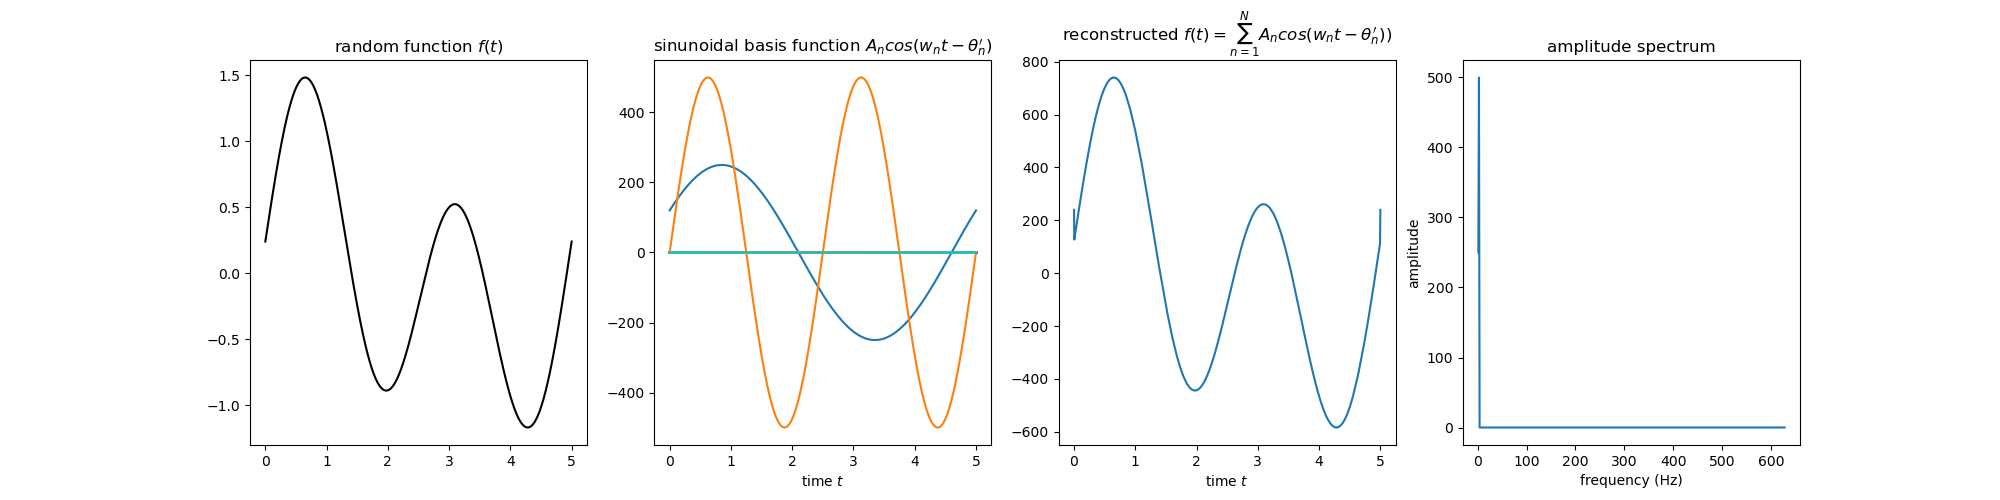
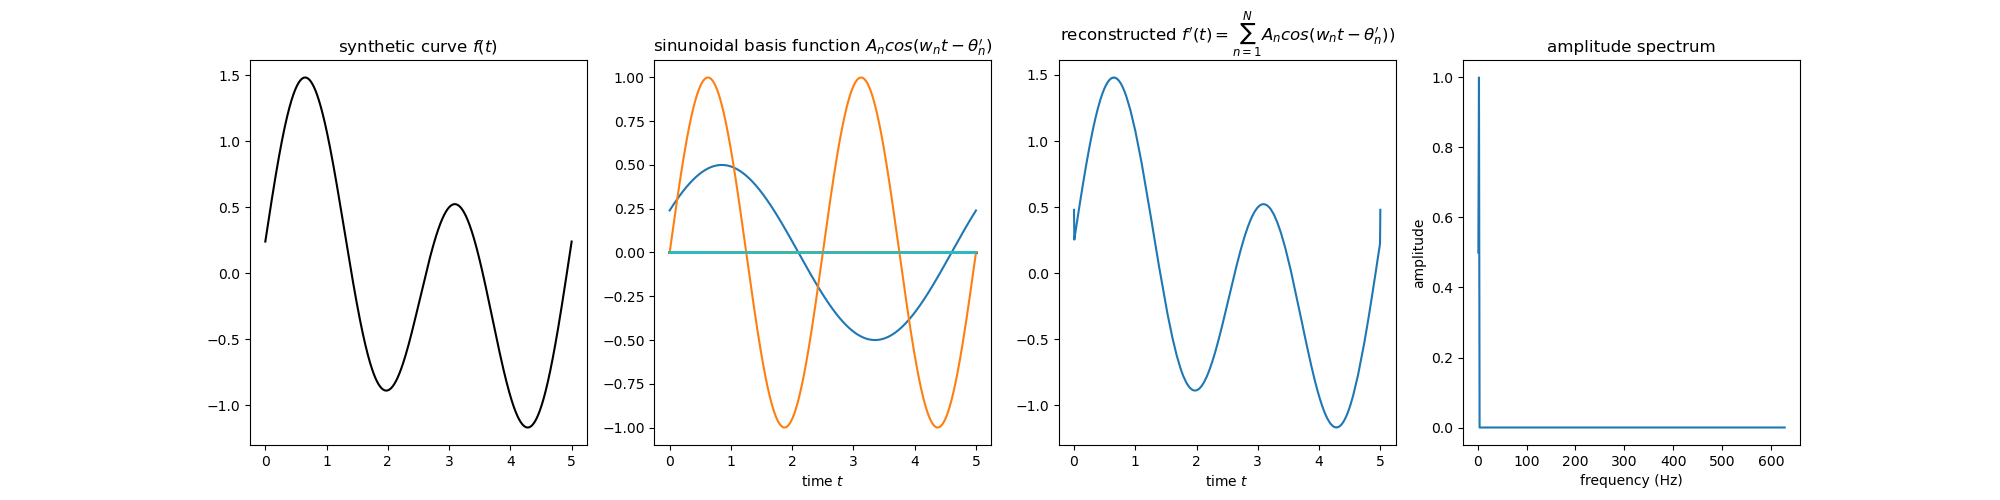
add: fourier transform

diff --git a/blog/_posts/2023-07-02-fourier-transform.md b/blog/_posts/2023-07-02-fourier-transform.md
@@ -2,7 +2,7 @@
 #layout: post
 title: Fourier Transform
 description: >
-  Fourier transform one liner. This post to ...
+  Fourier Transform is a novel method that is widely used in signal processing. This post to explain the intuition behind its mathematical operations and celebrate the beauty of it. 
 author: author1
 comments: true
 ---
@@ -66,7 +66,7 @@ Therefore, the approximation of a function $$f(t)$$ with sinusoidal basis functi
 
 $$f(t) = \sum_{n \in \mathbb{N}} A_n cos(w_nt - \phi^\prime_n) = \sum_{n \in \mathbb{N}} g_n(t) $$
 
-And because a sinusoid can be expressed as a linear combination of a sine and cosine function, hence
+And because a sinusoid $$g_n(t)$$ can be expressed as a linear combination of a sine and cosine function, hence
 
 $$f(t) = \sum_{n \in \mathbb{N}} C_n cos(w_nt) + D_n sin(w_nt)$$
 
@@ -78,7 +78,7 @@ $$\int_{-T/2}^{T/2} f(t) cos(w_mt)dt
 = \int_{-T/2}^{T/2}[\sum_{n \in \mathbb{N}} C_ncos(w_nt) + D_nsin(w_nt)] cos(w_m)dt 
 = \sum_{n \in \mathbb{N}} C_n \int_{-T/2}^{T/2} cos(w_nt) cos(w_m)dt + \sum_{n \in \mathbb{N}} D_n \int_{-T/2}^{T/2}sin(w_nt) cos(w_m)dt$$
 
-Despite its intimidating expansion, because any pair $$sin(w_nt)cos(w_mt) = 0$$ ($$\forall m, n$$) and $$cos(w_nt)cos(w_mt) = 0$$ ($$\forall m \neq n$$), we can simplify into
+Despite its intimidating expansion, because any pair $$\boldsymbol{sin(w_nt)cos(w_mt) = 0, (\forall m, n)}$$ and $$\boldsymbol{cos(w_nt)cos(w_mt) = 0, (\forall m \neq n)}$$, we can simplify the equation into
 
 $$\int_{-T/2}^{T/2} f(t) cos(w_mt)dt 
 = C_m\int_{-T/2}^{T/2} cos(w_nt) cos(w_mt) dt
@@ -98,7 +98,7 @@ I believe you have doubt about the simplification step, which I think can better
 
 The first row, for example, given the two waves $$\boldsymbol{sin(\phi)}$$ and $$\boldsymbol{cos(2\phi)}$$, the integral of their multiplication, i.e. $$\boldsymbol{\int_{-T/2}^{T/2} sin(\phi) cos(2\phi) dt} $$, is the summation of shaded area in the $$t$$-interval $$[-T/2, T/2] = [-5, 5]$$. You could notice that the positive side and negative side cover symmetrically the same amount of area, hence results in a total sum of zero. This holds true for the second example where $$\boldsymbol{\int_{-T/2}^{T/2} cos(\phi) cos(2\phi) dt = 0}$$. Lastly, $$\boldsymbol{\int_{-T/2}^{T/2} cos^2(\phi) dt} = T/2$$, again, can be shown in the figure.
 
-Even though they are examples, this does not lose generality for other such pairs with varying frequencies, as long as their frequencies are harmonics. 
+Even though they are examples, this does not lose generality for other similar pairs with varying frequencies, as long as their frequencies are harmonics. 
 
 ![Fig04](/assets/blog/2023-07-02/sin_cos2.png){:data-width="1440" data-height="836"}
 ![Fig04](/assets/blog/2023-07-02/cos_cos2.png){:data-width="1440" data-height="836"}
@@ -107,25 +107,53 @@ Fig. 4. **Row 1**: The integral of any $$sin(nwt) \times cos(mwt)$$ is zero. **R
 {:.figure}
 
 
-## Algorithm
+## Discrete Fourier Transform Algorithm
 
-A picture is worth a thousands words, let's see at play.
-first 2 sinunoids capture, the rest has amplitude next to 0, hence 
+With the background out of the way, I hope that the to-be-shown algorithm will come out in a positive light, such that the employed numerical operations accompanied by a great sense of intuition. The term "discrete" means the basis function takes whole-number multiples of a fundamental frequency.
+
+Fig. 5. depicts the Fourier Transform at play when apply it on a synthetic curve $$f(t)$$. The curve is decomposed into 500 cosine waves whose fundamental frequency and harmonic $$n_2$$ having great amplitude and higher frequency $$w_3, w_4, ..., w_{500}$$ having amplitude approximately 0. Taking the summation of the 500 waves can lead to a near-perfect reconstruction $$f^\prime(t)$$. Lastly, by plotting each frequency $$w_n$$ in the sinunoidal basis functions on the x-axis and their amplitude $$A_n$$ on the y-axis, we can form the amplitude spectrum of the curve $$f(t)$$. This shows which frequency contributes the highest to the shape of $$f(t)$$, which is expectedly the $$w_1$$ and $$w_2$$.
 
 ![Fig05](/assets/blog/2023-07-02/fourier_transform.png){:data-width="1440" data-height="836"}
-Fig. 5. **Column 1**: An arbitrary function $$f(t)$$. **Column 2**: Applying Fourier transform and compute the sinunoidal basis functions that approximate $$f(t)$$ in form of $$A_n cos(w_nt - \phi^\prime_n), \forall n \in \mathbb{N}$$. **Column 3**: Reconstruct $$f(t)$$ using the formula $$\sum_{n=1}^\mathbb{N} A_n cos(w_nt - \phi^\prime_n)$$. **Column 4**: The plot of $$A_n$$ to see the contribution of each frequency $$w_n = n \times w_1$$ in the basis functions. 
+Fig. 5. **Column 1**: A synthetic curve $$f(t)$$. **Column 2**: Applying Fourier transform and compute the sinunoidal basis functions that approximate $$f(t)$$ in form of $$A_n cos(w_nt - \phi^\prime_n), \forall n \in \mathbb{N}$$. **Column 3**: Reconstruct $$f^\prime(t)$$ using the formula $$\sum_{n=1}^\mathbb{N} A_n cos(w_nt - \phi^\prime_n)$$. **Column 4**: The plot of $$A_n$$ to see the contribution of each frequency $$w_n = n \times w_1$$ in the basis functions. 
 {:.figure}
 
+I use the code below to produce the figure. 
 
 ```python
 x, ft, T = generate_curve_ft()
 fundamental_frequency = 2 * math.pi / T
 n_frequencies = 500
 freqs, Cs, Ds = fourier_transform(fundamental_frequency, n_frequencies)
-As, thetas, sinunoids = compute_sinunoidal_basis_function(Cs, Ds, x)
+As, thetas, sinunoids = compute_sinunoidal_basis_function(Cs, Ds, n_frequencies, x)
 reconstructed_ft = np.sum(sinunoids, axis=0)
+
+f, (ax0, ax1, ax2, ax3) = plt.subplots(nrows=1, ncols=4, figsize=(20, 5))
+
+# synthetic curve ft
+ax0.plot(x, ft, color='black')
+ax0.set_title(r'random function $f(t)$')
+ax1.set_xlabel(r'time $t$')
+
+# obtain sinunoidal basis function
+for sinunoid_n in sinunoids:
+    ax1.plot(x, sinunoid_n)
+ax1.set_title(r'sinunoidal basis function $A_n cos(w_nt - \theta^\prime_n)$')
+ax1.set_xlabel(r'time $t$')
+
+# reconstructed functions
+ax2.plot(x, reconstructed_ft)
+ax2.set_title(r'reconstructed $f^\prime(t) = \sum_{n=1}^N A_n cos(w_nt - \theta^\prime_n))$')
+ax2.set_xlabel(r'time $t$')
+
+# amplitude spectrum
+ax3.plot(freqs,As)
+ax3.set_xlabel('frequency (Hz)')
+ax3.set_ylabel('amplitude')
+ax3.set_title('amplitude spectrum')
+plt.show()
 ```
 
+Firstly, I create a synthetic curve $$f(t)$$ whose value is the summation of two arbitrary sine waves, but I picked their frequencies such that the pattern of $$f(t)$$ will repeat every $$T=5$$ seconds. This is no means a constraint and you can replace with an arbitrary non-periodic function.
 ```python
 def generate_curve_ft():
     T = 5
@@ -140,6 +168,7 @@ def plus_waves(Y1, Y2):
     return Y1 +  Y2
 ```
 
+Secondly, I decided that I want 500 sinunoidal basis functions to approximate $$f(t)$$, whose fundamental frequency $$w_1 = 2 \pi/T = 2\pi/5$$ and subsequently $$w_2 = 2 \times w_1 = 4\pi/5$$, $$w_3 = 3 \times w_1 = 6\pi/5$$, and so on. For each frequency $$w_n$$, utilizing the orthogonal properties by multiplying $$f(t)$$ with $$cos(w_nt)$$ and $$sin(w_nt)$$, you can obtain $$C_n$$ and $$D_n$$ respectively. With this info, you essentially have decomposed successfully the curve into multiple sine and cosine waves.  
 ```python
 def fourier_transform(fundamental_frequency, n_frequencies):
     freqs, Cs, Ds = list(), list(), list()
@@ -172,9 +201,10 @@ def compute_integral_of_wave_multiplication(Y1, Y2):
     return np.dot(Y1, Y2) # inner product is equivalent to element-wise multiplication, then summation
 ```
 
+Thirdly, utilizing the premise of any sinunoid can be expressed as a summation of sine and cosine functions, we use $$C_n$$ and $$D_n$$ to compute the amplitude $$A_n$$ and initial phase $$\theta^\prime_n$$. Take note that we need to normalize each $$A_n$$ by dividing by 500. With this, the rest of the code is to take the summation of 500 sinunoids to compute $$f^\prime(t)$$, a reconstruction of $$f(t)$$. 
 ```python
-def compute_sinunoidal_basis_function(Cs, Ds, x):
-    As = ((Cs**2 + Ds**2) ** 0.5)
+def compute_sinunoidal_basis_function(Cs, Ds, n_frequencies, x):
+    As = ((Cs**2 + Ds**2) ** 0.5) / n_frequencies
     thetas = np.arctan(Ds / Cs)
 
     sinunoids = list()
@@ -186,25 +216,23 @@ def compute_sinunoidal_basis_function(Cs, Ds, x):
     return As, thetas, sinunoids
 ```
 
-## Properties of Fourier Transform
+The full code can be found in this <a href="https://github.com/hovinh/fourier-transform">Github</a>. Please note that the code favours explainability over performance, hence is not optimized. In practice, people commonly use fast Fourier Transform instead.
 
+## Applications
 
-marginalization: contribution to f(t)
-wavelength: distance between adajance peaks
+To recap, the Fourier Transform enables the transformation of a signal (or function) $$f(t)$$ into a set of basis functions $$g_1(t), g_2(t),$$... on the same input domain, that in turn can compute the amplitude (or "contribution") of those functions onto the construction of $$f(t)$$. The near-perfect two-way representation hints at the ability to study a signal at a closer look by decomposing it into core components, and imagine, if you will, to retain certain components and get rid of the rest, a nicer form of the original signal can be revealed.
 
-convolution theorem.
+My argument may better illustrates with an example of a sound recording. Let's say the record is polluted by background noise, then by leveraging on Fourier Transform and plenty of trial-and-error to know which basis function is the source of noise, you can remove it from the equation and enhance the sound quality. Of course this is an extreme, but it's not so further away from denoising a time series of interest by retaining only frequencies with above-a-threshold "contribution".
 
-decompose structure, 
+Alternatively, Fourier Transform is a feature engineering process to transform any time-varying (with acceptable tolerance) signal into a fixed-size tabular format. This can be done with the amplitude spectrum, i.e. the contribution profile of each sinunoidal basis function to the original signal. Frame it differently, this is also a dimensionality reduction method should you use $$M$$ data points to represent the signal, then instead $$n << M$$ frequencies can approximately capture the same information.
 
-Outcome on 2D images are more exciting, but not within the scope of this study
-
-compression, feature engineering, noise cancelling. extract feature and manipulate the original images.
-
-how to get amplitude
+The same can apply for 2D image: instead of the univariate time axis, we have the bivariate Cartesian coordinate in x and y axis to capture the "signal" $$f(x, y)$$. In the context of image processing, a filter is an image captures specific edges, corners, or textures of the original image, that is no different from the decomposition basis functions of Fourier Transform. One can, for example, explore the idea of initializing Convolutional Neural Network's kernels with these, potentially promise a more robust features and quicker convergence. 
 
 ## Summary
 
-My appreciation to James V Stone for the great book: <a href="https://www.amazon.com/Fourier-Transform-Tutorial-Introduction-ebook/dp/B0BN22Q8WW">The Fourier Transform: A Tutorial Introduction</a>, on which inspired me to write the post in the first place. 
+In this post, I have sketched out the intuition foundation behind the numerical operations employed in discrete Fourier Transform. I illustrate the algorithm with a synthetic curve and go through the code snippets that product it. Lastly, some ML applications have been discussed in the context of signal such as 1-D sound recording or 2-D image. I hope that this post make you understand better the idea behind Fourier Transform and can adapt its idea in the upcoming signal analysis or ML tasks.
+
+My appreciation to James V Stone for the great book: <a href="https://www.amazon.com/Fourier-Transform-Tutorial-Introduction-ebook/dp/B0BN22Q8WW">The Fourier Transform: A Tutorial Introduction</a>, on which inspired me to write this post in the first place. 
 
 ---
 
